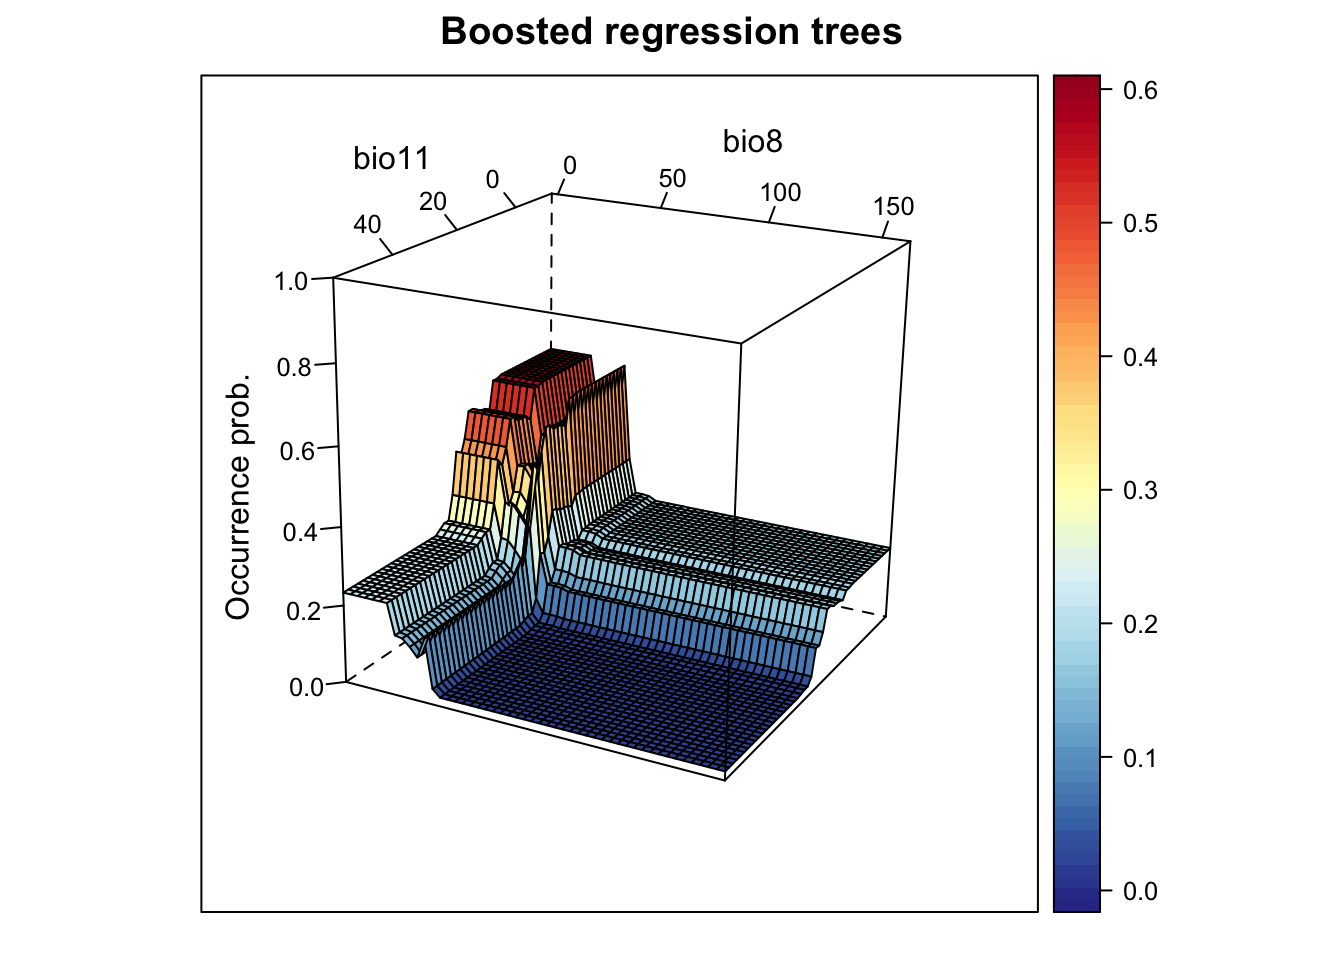
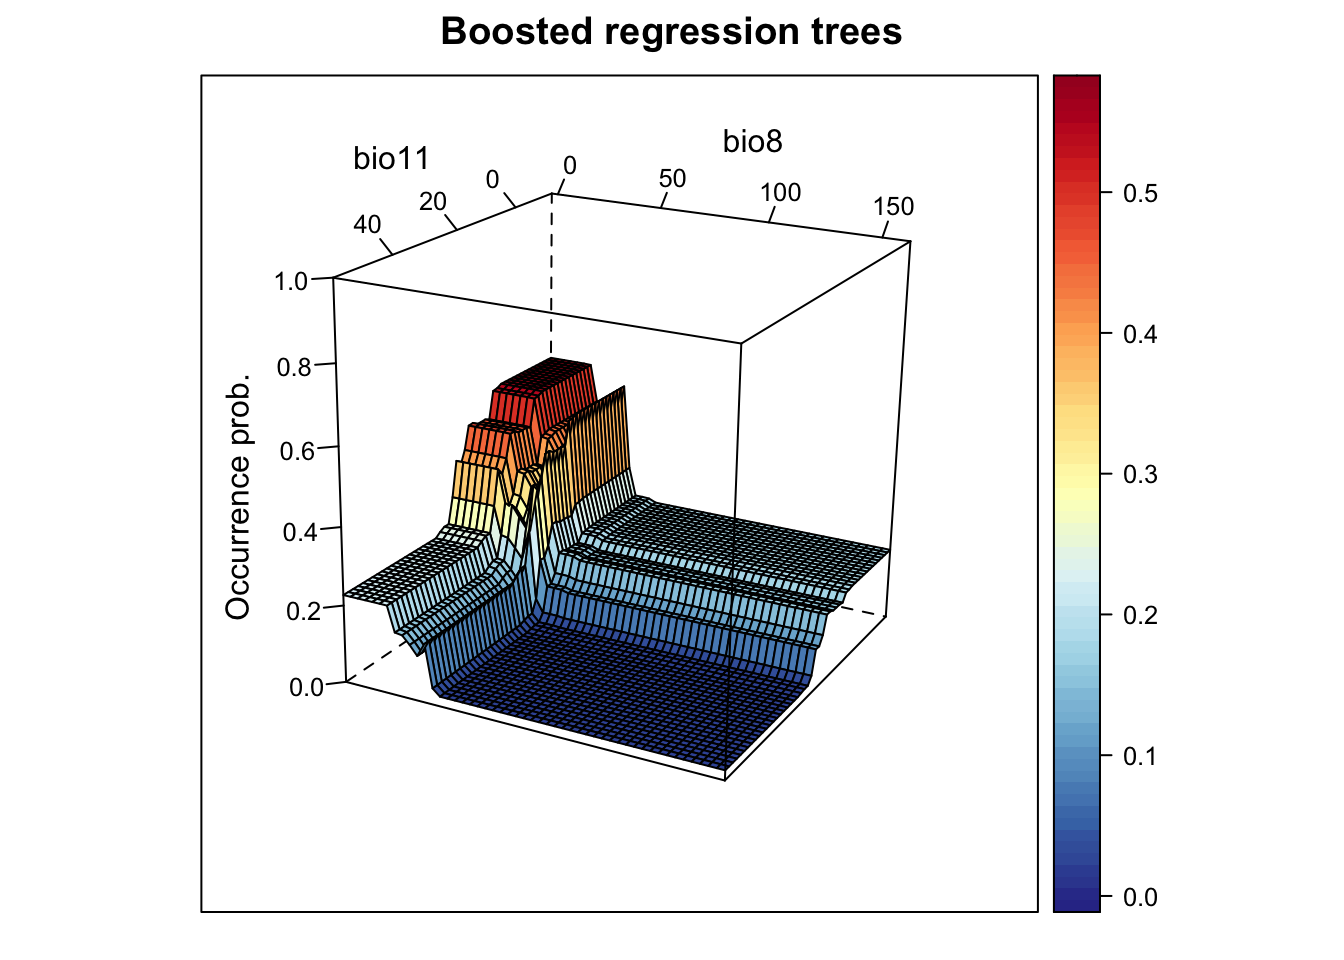
fix typos

diff --git a/b6_SDM_algorithms.html b/b6_SDM_algorithms.html
@@ -712,19 +712,19 @@ m_rf &lt;- randomForest( x=sp_train[,my_preds], y=sp_train$Turdus_torquatus,
 # Variable importance:
 importance(m_rf,type=1)</code></pre>
 <pre><code>##        %IncMSE
-## bio11 17.20485
-## bio8  21.40965</code></pre>
+## bio11 17.17648
+## bio8  20.17584</code></pre>
 <pre class="r"><code>varImpPlot(m_rf)</code></pre>
 <p><img src="b6_SDM_algorithms_files/figure-html/unnamed-chunk-14-1.png" width="672" /></p>
 <pre class="r"><code># Look at single trees:
 head(getTree(m_rf,1,T))</code></pre>
-<pre><code>##   left daughter right daughter split var split point status prediction
-## 1             2              3     bio11   22.450818     -3 0.08732394
-## 2             4              5      bio8   18.338962     -3 0.48888889
-## 3             6              7      bio8   35.989356     -3 0.02903226
-## 4             8              9     bio11    6.709225     -3 0.90909091
-## 5            10             11     bio11   20.733139     -3 0.35294118
-## 6            12             13     bio11   26.756099     -3 0.37500000</code></pre>
+<pre><code>##   left daughter right daughter split var split point status  prediction
+## 1             2              3      bio8    34.17421     -3 0.084507042
+## 2             4              5      bio8    11.86004     -3 0.562500000
+## 3             6              7      bio8    35.98936     -3 0.009771987
+## 4             0              0      &lt;NA&gt;     0.00000     -1 1.000000000
+## 5             8              9      bio8    30.85739     -3 0.522727273
+## 6            10             11     bio11    26.75610     -3 0.166666667</code></pre>
 <pre class="r"><code># Now, we plot the response surface:
 xyz$z &lt;- predict(m_rf, xyz, type=&#39;response&#39;)
 wireframe(z ~ bio11 + bio8, data = xyz, zlab = list(&quot;Occurrence prob.&quot;, rot=90), 
@@ -736,10 +736,10 @@ wireframe(z ~ bio11 + bio8, data = xyz, zlab = list(&quot;Occurrence prob.&quot;
 par(mfrow=c(1,2)) 
 partial_response(m_rf, predictors = sp_train[,my_preds], main=&#39;Random Forest&#39;)</code></pre>
 <p><img src="b6_SDM_algorithms_files/figure-html/unnamed-chunk-14-3.png" width="672" /></p>
-<pre class="r"><code># Performance measures of GAM with spline-smoother 
+<pre class="r"><code># Performance measures of RF
 (perf_rf &lt;- evalSDM(sp_test$Turdus_torquatus, predict(m_rf, sp_test[,my_preds],  type=&#39;response&#39;) ))</code></pre>
 <pre><code>##         AUC       TSS     Kappa  Sens      Spec       PCC        D2 thresh
-## 1 0.9039522 0.7132353 0.4597156 0.875 0.8382353 0.8421053 0.2859066   0.13</code></pre>
+## 1 0.9028033 0.7132353 0.4597156 0.875 0.8382353 0.8421053 0.2308593   0.13</code></pre>
 <pre class="r"><code># Map predictions:
 r_rf_bin &lt;- r_rf_pred &lt;- rasterFromXYZ(cbind(bio_curr_df[,1:2],
                                  predict(m_rf, bio_curr_df,type=&#39;response&#39;)))
@@ -778,16 +778,16 @@ m_brt &lt;- gbm.step(data = sp_train,
 <pre class="r"><code># Variable importance:
 m_brt$contributions</code></pre>
 <pre><code>##         var  rel.inf
-## bio8   bio8 58.09067
-## bio11 bio11 41.90933</code></pre>
+## bio8   bio8 58.27601
+## bio11 bio11 41.72399</code></pre>
 <pre class="r"><code># Interactions (not very meaningful here with only 2 predictors):
 gbm.interactions(m_brt)$interactions</code></pre>
 <pre><code>##       bio11  bio8
-## bio11     0 34.15
+## bio11     0 28.34
 ## bio8      0  0.00</code></pre>
 <pre class="r"><code>gbm.interactions(m_brt)$rank.list</code></pre>
 <pre><code>##   var1.index var1.names var2.index var2.names int.size
-## 1          2       bio8          1      bio11    34.15
+## 1          2       bio8          1      bio11    28.34
 ## 2          3       &lt;NA&gt;          0                0.00</code></pre>
 <pre class="r"><code># dismo provides some build-in functions for plotting response:
 gbm.plot(m_brt, n.plots=2, write.title = FALSE)</code></pre>
@@ -805,10 +805,10 @@ wireframe(z ~ bio11 + bio8, data = xyz, zlab = list(&quot;Occurrence prob.&quot;
 par(mfrow=c(1,2)) 
 partial_response(m_brt, predictors = sp_train[,my_preds], main=&#39;BRT&#39;)</code></pre>
 <p><img src="b6_SDM_algorithms_files/figure-html/unnamed-chunk-15-5.png" width="672" /></p>
-<pre class="r"><code># Performance measures of GAM with spline-smoother 
+<pre class="r"><code># Performance measures of BRT
 (perf_brt &lt;- evalSDM(sp_test$Turdus_torquatus, predict.gbm(m_brt, sp_test[,my_preds], n.trees=m_brt$gbm.call$best.trees, type=&#39;response&#39;) ))</code></pre>
-<pre><code>##         AUC       TSS     Kappa  Sens      Spec       PCC       D2 thresh
-## 1 0.9379596 0.7352941 0.5006258 0.875 0.8602941 0.8618421 0.396242  0.125</code></pre>
+<pre><code>##         AUC       TSS     Kappa  Sens      Spec       PCC        D2 thresh
+## 1 0.9400276 0.7352941 0.5006258 0.875 0.8602941 0.8618421 0.3948688   0.12</code></pre>
 <pre class="r"><code># Map predictions:
 r_brt_bin &lt;- r_brt_pred &lt;- rasterFromXYZ(cbind(bio_curr_df[,1:2],
                                   predict.gbm(m_brt, bio_curr_df,
@@ -842,10 +842,10 @@ wireframe(z ~ bio11 + bio8, data = xyz, zlab = list(&quot;Occurrence prob.&quot;
 par(mfrow=c(1,2)) 
 partial_response(m_maxent, predictors = sp_train[,my_preds], main=&#39;Maxent&#39;)</code></pre>
 <p><img src="b6_SDM_algorithms_files/figure-html/unnamed-chunk-16-2.png" width="672" /></p>
-<pre class="r"><code># Performance measures of GAM with spline-smoother 
+<pre class="r"><code># Performance measures of Maxent
 (perf_maxent &lt;- evalSDM(sp_test$Turdus_torquatus, predict(m_maxent, sp_test[,my_preds],  type=&#39;logistic&#39;) ))</code></pre>
 <pre><code>##         AUC       TSS     Kappa   Sens      Spec       PCC        D2 thresh
-## 1 0.9384191 0.7610294 0.4656918 0.9375 0.8235294 0.8355263 0.3160077  0.265</code></pre>
+## 1 0.9402574 0.7683824 0.4782609 0.9375 0.8308824 0.8421053 0.2742087   0.29</code></pre>
 <pre class="r"><code># Map predictions:
 r_maxent_bin &lt;- r_maxent_pred &lt;- rasterFromXYZ(cbind(bio_curr_df[,1:2],
                                      predict(m_maxent, bio_curr_df, type=&quot;logistic&quot;)))
@@ -865,18 +865,18 @@ plot(stack(r_maxent_pred, r_maxent_bin),main=c(&#39;Maxent prob.&#39;,&#39;Maxen
 ## glm    0.9333640 0.7352941 0.5006258 0.8750 0.8602941 0.8618421  0.4607125
 ## gamS   0.9375000 0.7757353 0.4912689 0.9375 0.8382353 0.8486842  0.4586095
 ## cart   0.8244485 0.6323529 0.4751381 0.7500 0.8823529 0.8684211  0.2546056
-## rf     0.9039522 0.7132353 0.4597156 0.8750 0.8382353 0.8421053  0.2859066
-## brt    0.9379596 0.7352941 0.5006258 0.8750 0.8602941 0.8618421  0.3962420
-## maxent 0.9384191 0.7610294 0.4656918 0.9375 0.8235294 0.8355263  0.3160077
+## rf     0.9028033 0.7132353 0.4597156 0.8750 0.8382353 0.8421053  0.2308593
+## brt    0.9400276 0.7352941 0.5006258 0.8750 0.8602941 0.8618421  0.3948688
+## maxent 0.9402574 0.7683824 0.4782609 0.9375 0.8308824 0.8421053  0.2742087
 ##        thresh
-## bc      0.260
-## dom     0.680
-## glm     0.120
-## gamS    0.100
-## cart    0.320
-## rf      0.130
-## brt     0.125
-## maxent  0.265</code></pre>
+## bc       0.26
+## dom      0.68
+## glm      0.12
+## gamS     0.10
+## cart     0.32
+## rf       0.13
+## brt      0.12
+## maxent   0.29</code></pre>
 <pre class="r"><code># Adapt the file path to your folder structure
 write.table(data.frame(alg=row.names(comp_perf),comp_perf), 
             file=&#39;data/SDM_alg_performances.txt&#39;, row.names=F)</code></pre>
